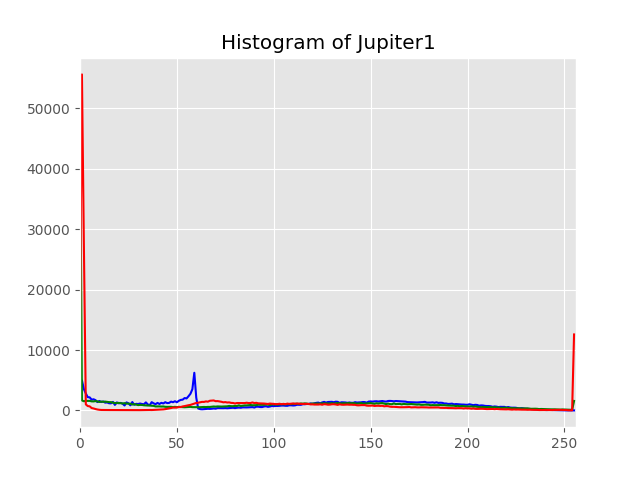
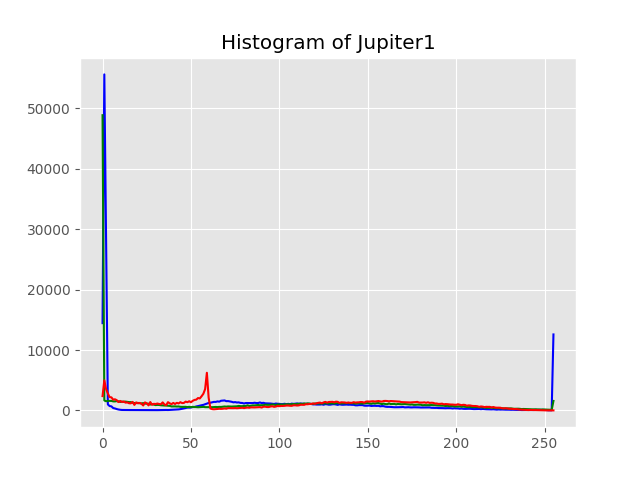
Update

diff --git a/Mandetory/Task1/jupiter_analysing.py b/Mandetory/Task1/jupiter_analysing.py
@@ -12,7 +12,7 @@ JUP1 = cv2.imread('Mandetory\Supplementary data\Jupiter1.png')
 JUP2 = cv2.imread('Mandetory\Supplementary data\Jupiter2.png')
 
 gray_JUP2 = cv2.imread('Mandetory\Supplementary data\Jupiter2.png', 0) # Jupiter2 in grayscale
-blue, green, red = cv2.split(JUP1) # Jupiter1 in splited in to RGB
+blue, green, red = cv2.split(JUP1)  # Jupiter1 in RGB
 
 
 """ Task 1b """
@@ -20,7 +20,6 @@ def histogram(img):
     for i, col in enumerate(['b', 'g', 'r']):
         hist = cv2.calcHist([img], [i], None, [256], [0, 256])
         plt.plot(hist, color = col)
-        plt.xlim([0,256])
         plt.title("Histogram of Jupiter1")
     plt.show()
     
@@ -45,9 +44,14 @@ def magnitude_spectrum(img):
     plt.show()
     
 
+
+
+
+
+
 histogram(JUP1) # Jupiter1 in RGB
-magnitude_spectrum(red) # red channel of Jupiter1
-magnitude_spectrum(gray_JUP2) # Jupiter2 in grayscale
+#magnitude_spectrum(red) # red channel of Jupiter1
+#magnitude_spectrum(gray_JUP2) # Jupiter2 in grayscale
     
 
 
